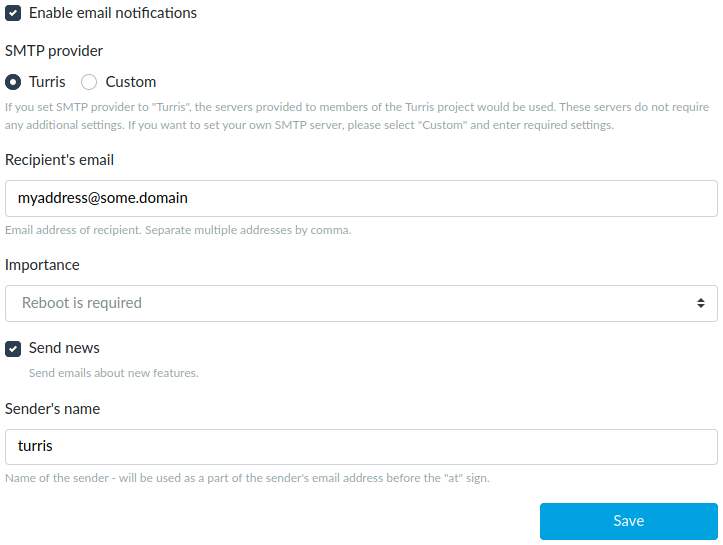
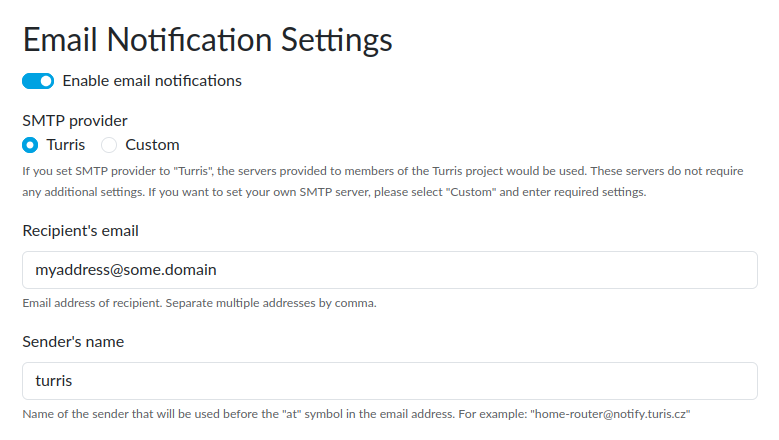
basics/reforis/notifications: Update according current reForis, fix syntax and grammar

diff --git a/docs/basics/reforis/notifications/reforis-notifications.md b/docs/basics/reforis/notifications/reforis-notifications.md
@@ -11,17 +11,18 @@ explicitly enabled.
 
 ## Internal notifications in reForis
 
-Internal notification in reForis are emitted on all important events – such
-as installed or removed packages, long operations, requested reboots or
-error occurred. Anywhere you are in reForis, new notifications are
-indicated at the small bell in the top-right corner of the page. The
-displayed number in the red disc means the number of new notifications.
+Internal notifications in reForis are emitted on all important events – such
+as installed or removed packages, long operations, requested reboots, or
+errors that occurred. Anywhere you are in reForis, new notifications are
+indicated by the number at the small bell in the top-right corner of
+the page. The displayed number in the red disc means the number of new
+notifications.
 
 ![You have new notifications](bell.png)
 
-If you move the mouse cursor over the bell a brief list of the notifications
+If you move the mouse cursor over the bell, a brief list of the notifications
 is displayed. You can go to the _Notifications_ page, configure the e-mail
-notifications (see below) or dismiss the notifications individually or
+notifications (see below), or dismiss the notifications individually or
 all at once.
 
 ![Brief list of notifications](list.png)
@@ -32,12 +33,12 @@ All of the undismissed notifications are on the _Notifications_ page.
 
 Here you can see the notification with their details, for example, with
 all installed/removed packages, full error messages, and so on. Longer
-contents are shortened and you can get their full versions by clicking
+contents are shortened, and you can get their full versions by clicking
 to _Show more_.
 
 ## E-mail notifications
 
-Almost nobody checks often whether there is something important in
+Almost nobody checks frequently whether there is something important in
 Turris OS. It isn't necessary to do such checks because e-mail
 notifications can be configured. They are disabled by default.
 These notifications can be set on _Administration → Notification Settings_.
@@ -57,20 +58,14 @@ there are several parameters to be configured:
   notifications. It's possible to use multiple addresses; separate them by
   commas.
 
-* **Importance** – By default, only notifications on required reboots are
-  sent. It can be changed to more "verbose" options.
-
-* **Send news** – If you check this checkbox, we will send you messages about
-  new features and other essential things about the Turris project.
-
 !!! important
-    If you want to use the Turris mail infrastructure please do not set
+    If you want to use the Turris mail infrastructure, please do not set
     an e-mail address that is forwarded/redirected to another address. As we
     use antispam technologies like
     [SPF](https://en.wikipedia.org/wiki/Sender_Policy_Framework),
     [DKIM](https://en.wikipedia.org/wiki/DomainKeys_Identified_Mail), and
-    [DMARC](https://en.wikipedia.org/wiki/DMARC) the notification messages need
-    not to be delivered. Mailing lists are usually safe but it depends on
+    [DMARC](https://en.wikipedia.org/wiki/DMARC), the notification messages need
+    not be delivered. Mailing lists are usually safe, but it depends on
     specific implementation and/or configuration.
 
 ### Custom mail server
@@ -78,18 +73,18 @@ there are several parameters to be configured:
 It's necessary to set additional parameters to use this option:
 
 * **Sender address (From)** – It will be used as the address of the sender.
-  If the delivery of a message fails it will be returned to this address.
+  If the delivery of a message fails, it will be returned to this address.
 
 * **Server port** – This is usually 465
   ([SMTP](https://en.wikipedia.org/wiki/Simple_Mail_Transfer_Protocol)
   with implicit [TLS](https://en.wikipedia.org/wiki/Transport_Layer_Security);
-  this is the default), 25 (SMTP with explicit TLS or unsecured) or 587 (SMTP
+  this is the default), 25 (SMTP with explicit TLS or unsecured), or 587 (SMTP
   submission with explicit TLS or unsecured; it requires
   [authentication](https://en.wikipedia.org/wiki/SMTP_Authentication)).
   Also, you can use other port numbers in some situations.
 
 * **Security** – It can be set to one of these three options:
-    * **SSL** – Implicit TLS; is the default and most secure.
+    * **SSL** – Implicit TLS is the default and most secure.
     * **STARTTLS** – Explicit TLS; use it if your server doesn't support
       implicit TLS.
     * **None** – Unencrypted communication, not recommended; use it only
@@ -103,27 +98,83 @@ It's necessary to set additional parameters to use this option:
 
 ![Custom e-mail server](server.png)
 
-### Test notification
+## Push notifications
 
-After you configure the e-mail notification mechanism, we strongly encourage to
-send a test notification to ensure that all parameters have been set correctly.
-Simply click to _Send testing notification_.
+In addition to e-mail notifications, Turris OS also supports push notifications
+that are usually faster and can be configured on almost all mobile devices,
+like smartphones and tablets; computers like desktops or laptops are supported
+too.
+
+We use the [ntfy.sh](https://ntfy.sh) service for push notifications. This
+service does not collect personal data and can be simply configured and used.
+On top of that, it is open-source and can be self-hosted. You can easily deploy
+your own notification server and run all your potentially sensitive notifications
+through your own infrastructure.
+
+### How to receive ntfy.sh notifications
+
+1. Download the application. For Android, we recommend using
+   [F-Droid](https://f-droid.org/en/packages/io.heckel.ntfy/), but you can
+   download from [Google Play](https://play.google.com/store/apps/details?id=io.heckel.ntfy)
+   too. For Apple iOS, download it from the
+   [App Store](https://apps.apple.com/us/app/ntfy/id1625396347).
+2. Run the application and press the "+" button at the bottom-right corner.
+   Choose a name that is hard to guess (because there is no password
+   protection). Then press the "SUBSCRIBE" button.
+   ![Subscribe dialog](ntfy-subscribe.png)
+3. Then you are ready to receive notifications.
+
+!!! tip
+    It is possible to run your own instance of the ntfy server.
+    See the [documentation](https://docs.ntfy.sh/install/)
+    if you are interested in it.
+
+### How to configure ntfy.sh notifications in reForis
+
+There are two form fields to be filled in:
+
+* **URL** – Fill in the notification URL. For the standard server, it is
+  constructed as `https://ntfy.sh/<TOPIC>`, where `<TOPIC>` is the name
+  that you have set in the application.
+* **Priority** – This is the notification priority; the default is _High_.
+  Keep unchanged, unless you have received huge quantities of push
+  notifications and you want to prioritize them.
+
+![Push notifications](push.png)
+
+## General settings
+
+These parameters are common for all notification methods:
+
+* **Importance** – By default, only notifications on required reboots are
+  sent. It can be changed to more "verbose" options.
+
+* **Send news** – If you check this checkbox, we will send you messages about
+  new features and other essential things about the Turris project.
+
+![General settings](general.png)
+
+## Test notification
+
+After you configure the e-mail notification mechanism, we strongly encourage
+you to send a test notification to ensure that all parameters have been set
+correctly. Simply click to _Send testing notification_.
 
 ![Test notification](test.png)
 
 !!! important
     The importance level must be set at least to "Reboot or attention is
-    required". After testing, you can set it to the original level back.
+    required". After testing, you can set it to the original level.
 
 Then check your mailbox for the testing notification message. If it doesn't
-arrive please wait approx. 30 minutes because some antispam methods like
-greylisting can delay messages in some cases. If the message wouldn't come
-after this period check your settings.
+arrive please wait approximately 30 minutes because some antispam methods, like
+greylisting, can delay messages in some cases. If the message doesn't come
+after this period, check your settings.
 
 !!! notice
-    Some of configuration errors are reported by reForis during the test.
-    But even if it looks good in reForis it needn't mean that the
+    Some of the configuration errors are reported by reForis during the test.
+    But even if it looks good in reForis, it needn't mean that the
     configuration is correct. And vice versa, if the given server uses
-    greylisting or similar antispam technology it may report an error
-    even for a correct configuration. Please wait approx. 10 minutes and
+    greylisting or similar antispam technology, it may report an error
+    even for a correct configuration. Please wait ca. 10 minutes and
     try the test again.
